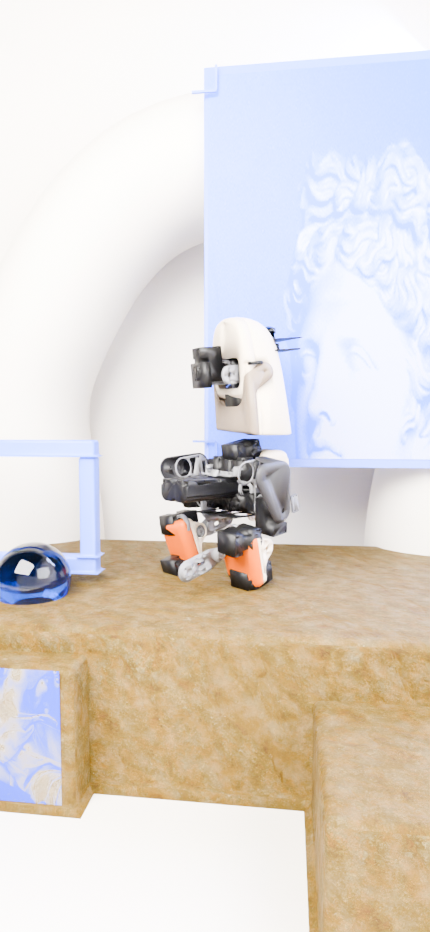
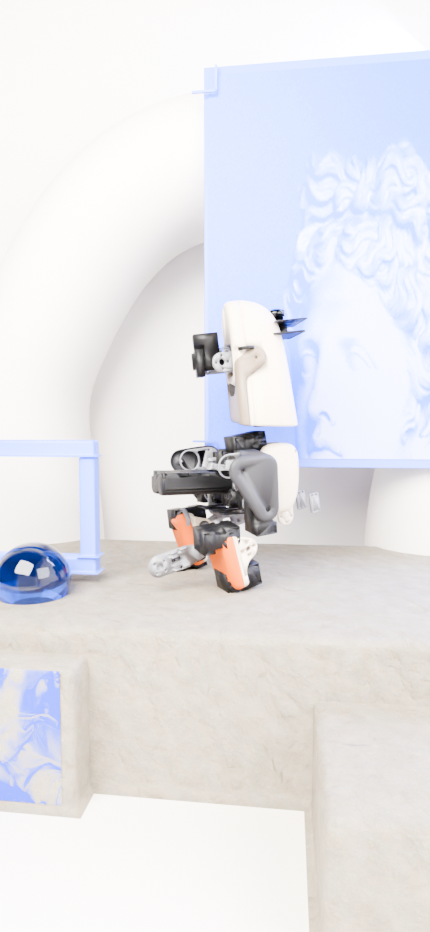
Restore the Blender hero plate and ship white/cobalt/dark stills.
The first frame is the Cycles studio render full-bleed in the 430px shell.
Type, nav, CTA, and the plate slider sit on top; CSS bust/orb/plinths stay gone.

diff --git a/app/globals.css b/app/globals.css
@@ -170,6 +170,8 @@ html[data-tone="ink"] {
   z-index: 8;
   contain: layout paint;
   pointer-events: none;
+  /* First frame is the Blender still; live duck after the hero beat. */
+  opacity: clamp(0, calc((var(--p, 0) - 0.08) * 8), 1);
 }
 
 .duck-canvas {
@@ -433,19 +435,194 @@ html[data-tone="ink"] {
   display: flex;
   height: 100%;
   width: 100%;
-  align-items: flex-end;
+  align-items: stretch;
   justify-content: center;
-  padding-bottom: 8%;
   background: var(--paper);
 }
 
-.duck-fallback svg {
-  height: 88%;
-  width: 78%;
+.duck-fallback img {
+  width: 100%;
+  height: 100%;
+  object-fit: cover;
+  object-position: center bottom;
 }
 
 @media (prefers-reduced-motion: reduce) {
-  .hero-copy {
+  .hero-copy,
+  .poster-plates,
+  .poster-marks {
     opacity: 1;
   }
+}
+
+.hero-coords,
+.hero-manifesto {
+  margin-top: 1.1rem;
+  font-family: var(--font-geist-sans), ui-sans-serif, system-ui, sans-serif;
+  font-size: 8px;
+  font-weight: 600;
+  line-height: 1.45;
+  letter-spacing: 0.18em;
+  text-transform: uppercase;
+  color: var(--ink);
+}
+
+.hero-coords span,
+.hero-manifesto span,
+.poster-right-stamp span,
+.poster-globe p span,
+.poster-footer-copy p span {
+  display: block;
+}
+
+.hero-manifesto {
+  margin-top: 0.85rem;
+  max-width: 7.5rem;
+  color: color-mix(in srgb, var(--ink) 78%, transparent);
+}
+
+.theme-slider-wrap {
+  pointer-events: auto;
+  position: absolute;
+  right: 14px;
+  top: 46px;
+  z-index: 72;
+  width: 122px;
+  display: flex;
+  flex-direction: column;
+  gap: 4px;
+  font-family: var(--font-geist-sans), ui-sans-serif, system-ui, sans-serif;
+  font-size: 7px;
+  font-weight: 600;
+  letter-spacing: 0.16em;
+  text-transform: uppercase;
+  color: var(--ink);
+}
+
+.theme-slider-label {
+  letter-spacing: 0.18em;
+}
+
+.poster-plates {
+  position: absolute;
+  inset: 0;
+  z-index: 2;
+  pointer-events: none;
+  background: var(--paper);
+  opacity: clamp(0, calc(1 - (var(--p, 0) - 0.02) * 6), 1);
+}
+
+.poster-plate {
+  position: absolute;
+  inset: 0;
+  width: 100%;
+  height: 100%;
+  object-fit: cover;
+  object-position: center bottom;
+  pointer-events: none;
+}
+
+.poster-marks {
+  position: absolute;
+  inset: 0;
+  z-index: 16;
+  pointer-events: none;
+  opacity: clamp(0, calc(1 - (var(--p, 0) - 0.02) * 6), 1);
+}
+
+.poster-right-stamp {
+  position: absolute;
+  right: 12px;
+  top: 46%;
+  max-width: 7.6rem;
+  text-align: right;
+  font-family: var(--font-geist-sans), ui-sans-serif, system-ui, sans-serif;
+  font-size: 8px;
+  font-weight: 600;
+  line-height: 1.38;
+  letter-spacing: 0.18em;
+  text-transform: uppercase;
+  color: var(--cobalt);
+}
+
+.poster-globe {
+  position: absolute;
+  right: 6%;
+  top: 54%;
+  display: flex;
+  flex-direction: column;
+  align-items: center;
+  gap: 5px;
+}
+
+.poster-globe-icon {
+  width: 34px;
+  height: 34px;
+  color: var(--cobalt);
+}
+
+.poster-globe p {
+  max-width: 4.8rem;
+  text-align: center;
+  font-family: var(--font-geist-sans), ui-sans-serif, system-ui, sans-serif;
+  font-size: 8px;
+  font-weight: 600;
+  line-height: 1.32;
+  letter-spacing: 0.18em;
+  text-transform: uppercase;
+  color: var(--cobalt);
+}
+
+.poster-plinth-copy {
+  position: absolute;
+  left: 16%;
+  bottom: 7%;
+}
+
+.poster-plinth-title {
+  font-family: var(--font-fraunces), ui-serif, Georgia, serif;
+  font-size: 1.85rem;
+  line-height: 0.8;
+  letter-spacing: -0.03em;
+  color: var(--ink);
+}
+
+.poster-plinth-rule {
+  display: block;
+  width: 2px;
+  height: 32px;
+  margin-top: 8px;
+  background: var(--cobalt);
+}
+
+.poster-plinth-sub {
+  margin-top: 8px;
+  max-width: 6.5rem;
+  font-family: var(--font-geist-sans), ui-sans-serif, system-ui, sans-serif;
+  font-size: 9px;
+  font-weight: 600;
+  line-height: 1.35;
+  letter-spacing: 0.16em;
+  text-transform: uppercase;
+  color: color-mix(in srgb, var(--ink) 70%, transparent);
+}
+
+.poster-footer-copy {
+  position: absolute;
+  right: 4%;
+  bottom: 4%;
+  text-align: right;
+  font-family: var(--font-geist-sans), ui-sans-serif, system-ui, sans-serif;
+  font-size: 10px;
+  font-weight: 600;
+  line-height: 1.28;
+  letter-spacing: 0.16em;
+  text-transform: uppercase;
+  color: var(--cobalt);
+}
+
+.poster-year {
+  margin-top: 12px;
+  font-size: 9px;
+  letter-spacing: 0.22em;
 }

diff --git a/components/overlay/Landing.tsx b/components/overlay/Landing.tsx
@@ -2,22 +2,23 @@
 
 import dynamic from "next/dynamic";
 import { ExperienceProvider } from "@/components/providers/ExperienceProvider";
-import { PosterBeats } from "@/components/poster/PosterBeats";
-import { PosterHeroCopy } from "@/components/poster/PosterHeroCopy";
 import { PosterNav } from "@/components/poster/PosterNav";
+import { PosterHeroCopy } from "@/components/poster/PosterHeroCopy";
+import { PosterBeats } from "@/components/poster/PosterBeats";
+import { PosterMarks, PosterPlates } from "@/components/poster/PosterChrome";
 import { CanvasGuard } from "@/components/duck/CanvasGuard";
 import { DuckFallback } from "@/components/duck/DuckFallback";
 
 const DuckStage = dynamic(
   () => import("@/components/duck/DuckStage").then((module) => module.DuckStage),
-  { ssr: false },
+  { ssr: false }
 );
 
 function AppShell() {
   return (
     <div className="phone-shell">
       <div className="poster-stage">
-        <div className="stage-bg" aria-hidden />
+        <PosterPlates />
         <div className="duck-slot">
           <CanvasGuard fallback={<DuckFallback />}>
             <DuckStage />
@@ -25,6 +26,7 @@ function AppShell() {
         </div>
         <PosterNav />
         <PosterHeroCopy />
+        <PosterMarks />
       </div>
       <main id="top" className="poster-story">
         <PosterBeats />

diff --git a/components/poster/ThemeSlider.tsx b/components/poster/ThemeSlider.tsx
@@ -11,7 +11,8 @@ export function ThemeSlider() {
   }, [t]);
 
   return (
-    <div className="theme-slider-wrap">
+    <div className="theme-slider-wrap" data-lenis-prevent>
+      <span className="theme-slider-label">{themeLabel(t)}</span>
       <input
         className="theme-slider"
         type="range"
@@ -19,7 +20,7 @@ export function ThemeSlider() {
         max={100}
         step={1}
         value={Math.round(t * 100)}
-        aria-label="Backdrop, paper to cobalt to ink"
+        aria-label="Studio plate, white to cobalt to dark"
         aria-valuetext={themeLabel(t)}
         onChange={(e) => setT(Number(e.target.value) / 100)}
       />
